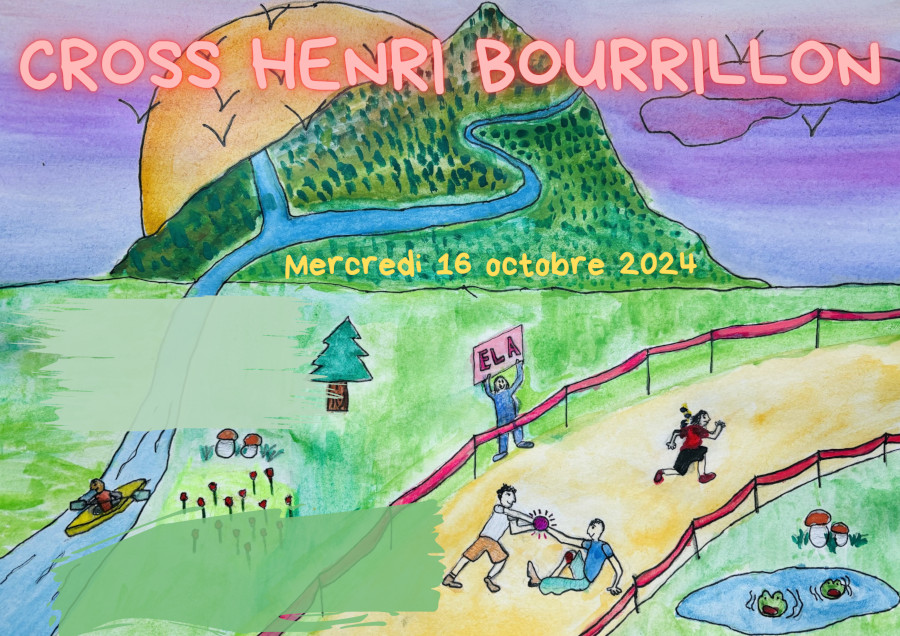
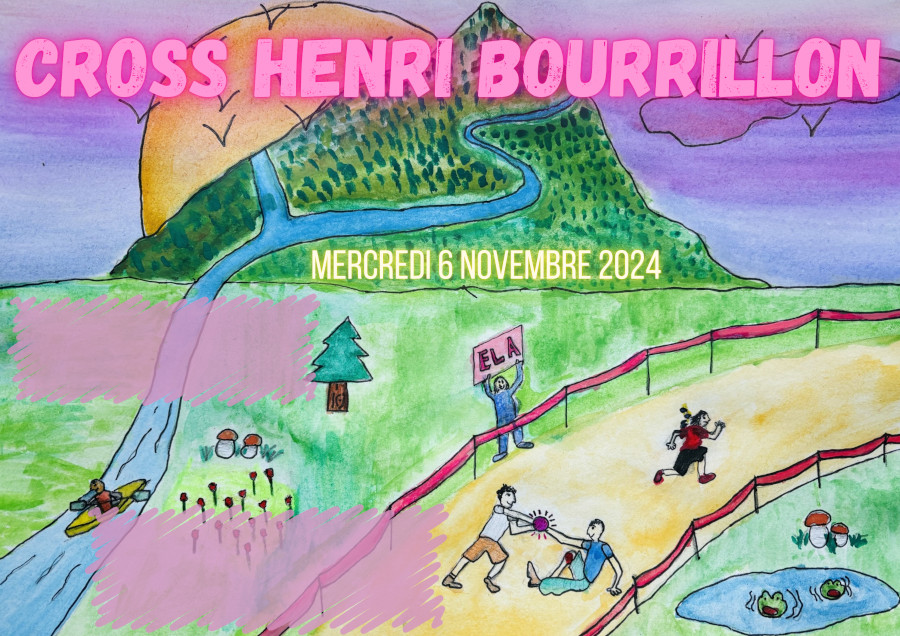
- correctif bug envoi des diplômes (type de variable incorrect dans une comparaison). - correctif : tri possible dans l'interface (cela se remettait tout seul dans l'ordre des temps d'arrivée).

diff --git a/resultatsDiffusion.py b/resultatsDiffusion.py
@@ -160,20 +160,23 @@ def envoiDiplomePourTousLesCoureurs(diplomeImpose = "") :
         ##            c.setEmail("lax.olivier@gmail.com")
                     #print(c.nombreDeSecondesDepuisDerniereModif(), " > 60*",diplomeDiffusionApresNMin)
                     #c.setEmailEnvoiEffectue(False)
-                if c.temps > 0 and (((not c.emailEnvoiEffectue) and c.email) or ((not c.emailEnvoiEffectue2) and c.email2)) and c.nombreDeSecondesDepuisDerniereModif() > 60*diplomeDiffusionApresNMin : # l'un des deux mails valide n'a pas reçu. On génère le diplome.
+                print(type(c.temps), type(c.nombreDeSecondesDepuisDerniereModif()), type(diplomeDiffusionApresNMin))
+                if c.temps > 0 and (((not c.emailEnvoiEffectue) and c.email) or ((not c.emailEnvoiEffectue2) and c.email2)) and c.nombreDeSecondesDepuisDerniereModif() > 60*int(diplomeDiffusionApresNMin) : # l'un des deux mails valide n'a pas reçu. On génère le diplome.
                     genereDiplome(modele, c, nomModele)
                     if envoiDiplomeParMail(c) :
                         # c.setEmailEnvoiEffectue(True)
                         if DEBUG : 
-                            print("Envoi du diplome pour le coureur sur email",c.emailEnvoiEffectue, "mail2:",c.emailEnvoiEffectue2)
-        
+                            print("Envoi du diplome pour le coureur " + c.nom + " sur email",c.emailEnvoiEffectue, "mail2:",c.emailEnvoiEffectue2)
+                # else :
+                #     print("Mail déjà envoyé pour le coureur :", c.nom, c.prenom, "classe :", c.classe)
+                
                 # if c.temps > 0 and (not c.emailEnvoiEffectue) and c.email and c.nombreDeSecondesDepuisDerniereModif() > 60*diplomeDiffusionApresNMin :
                 #     # le coureur a passé la ligne a un email valide et n'a pas reçu son diplome et n'a pas été modifié récemment, on l'envoie
                 #     #print("Envoi du mail fictif pour le coureur",c.nom,c.dossard,c.temps)
 
                 ### pour les tests !
-                elif __name__ == '__main__' and c.dossard == "1A" :
-                    genereDiplome(modele, c, nomModele)
+                # elif __name__ == '__main__' and c.dossard == "1A" :
+                #     genereDiplome(modele, c, nomModele)
                 # elif c.dossard[:-1] != "C" and c.temps == 0.0 :
                 #     print("Condition fausse : ", c.dossard, c.nom, "=>", c.temps, " > 0 and (not ",c.emailEnvoiEffectue,") and", c.email, "and" , c.nombreDeSecondesDepuisDerniereModif()," > 60*",diplomeDiffusionApresNMin)
                 #else : #if c.dossard == "1A" :
@@ -294,7 +297,7 @@ def envoiDiplomePourUnCoureurSurUnMail(AjoutObjet, fichier, mail) :
     gmail.username, gmail.password = choixDuMailAUtiliser()
     if gmail.username != "" :
         print("Envoi du diplome pour le coureur avec le mail expéditeur", gmail.username)
-        URLLienDirectVersResultats =  formater_chemin(Parametres["HTTPSserveur"]) + "index-en-ligne.html"
+        URLLienDirectVersResultats = Parametres["HTTPSserveur"] # formater_chemin(Parametres["HTTPSserveur"]) # + "index-en-ligne.html"
         retour = gmail.send(
                     sender=gmail.username,
                     receivers=[mail],

diff --git a/FonctionsMetiers.py b/FonctionsMetiers.py
@@ -35,7 +35,7 @@ from tkinter.messagebox import *
 import zipfile
 
 #### DEBUG
-DEBUG = False
+DEBUG = True
 
 version = "2.0.0"
 

diff --git a/modeles/diplomes/cross-HB-2024.tex b/modeles/diplomes/cross-HB-2024.tex
@@ -52,7 +52,7 @@
 \hspace{0.3cm} {}
 
 
-\vspace{2cm}
+\vspace{3cm}
 
 \bigskip
 
